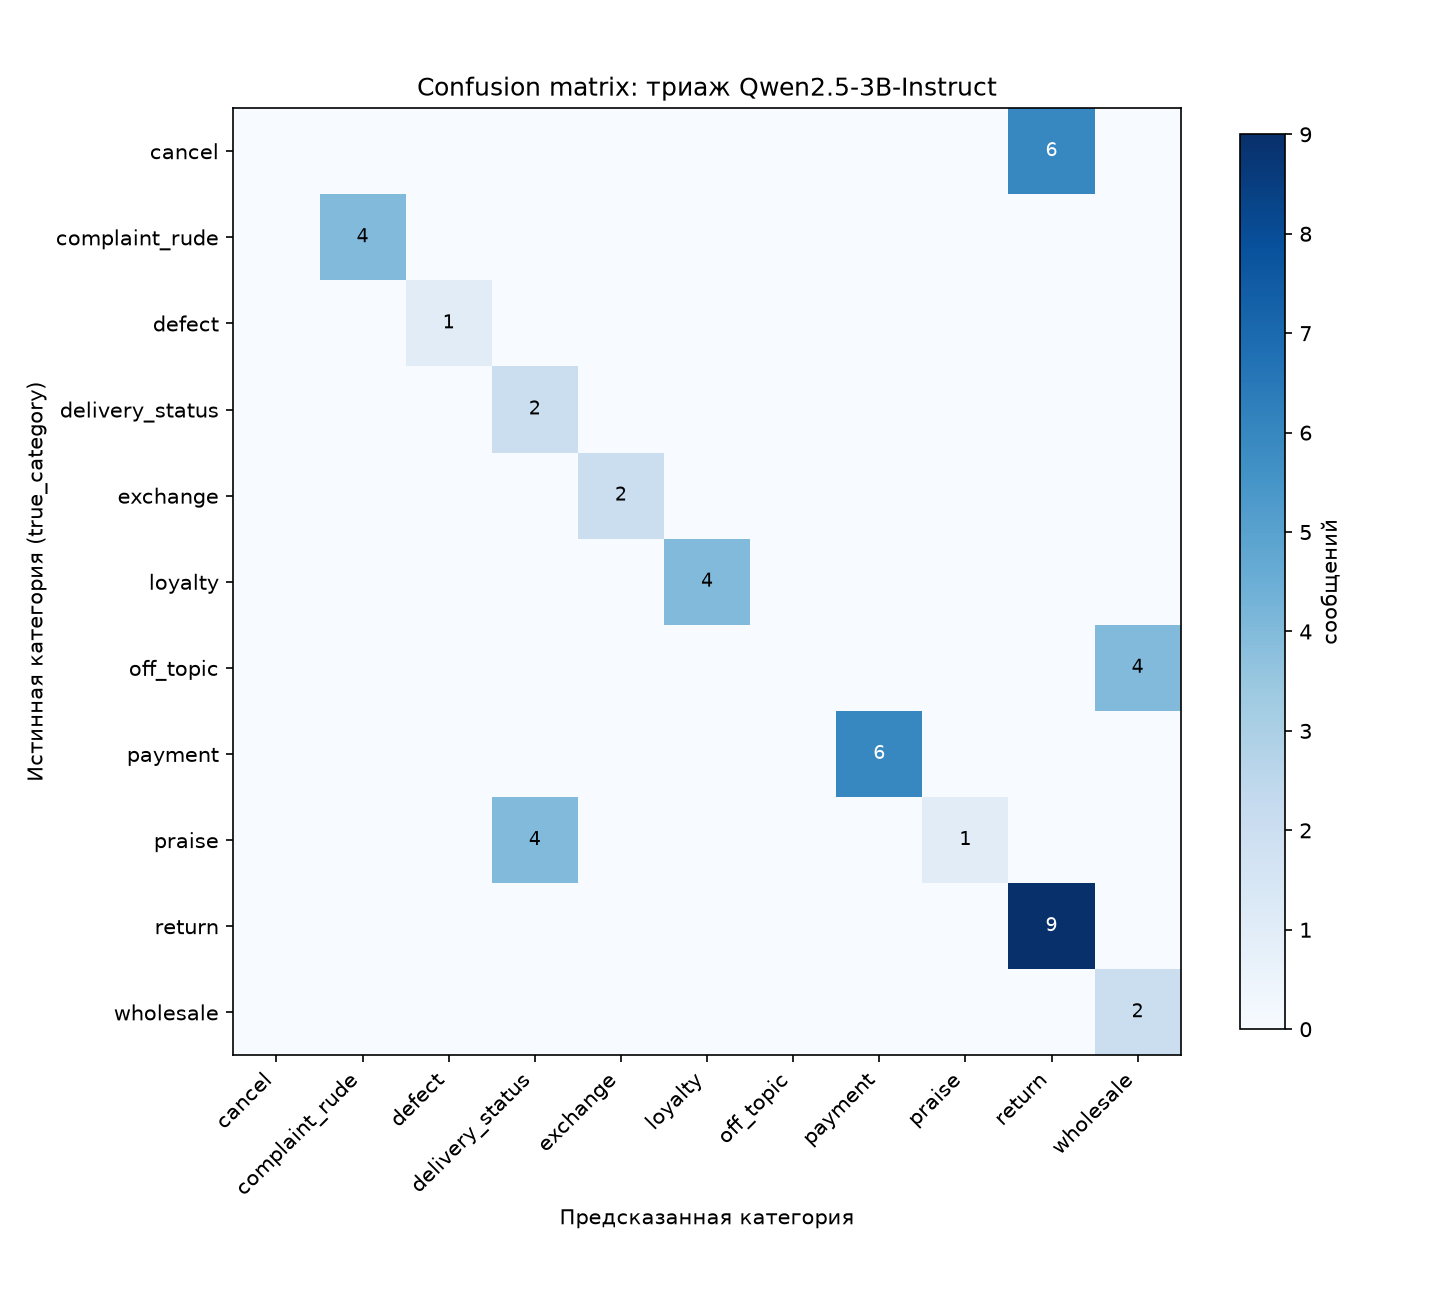
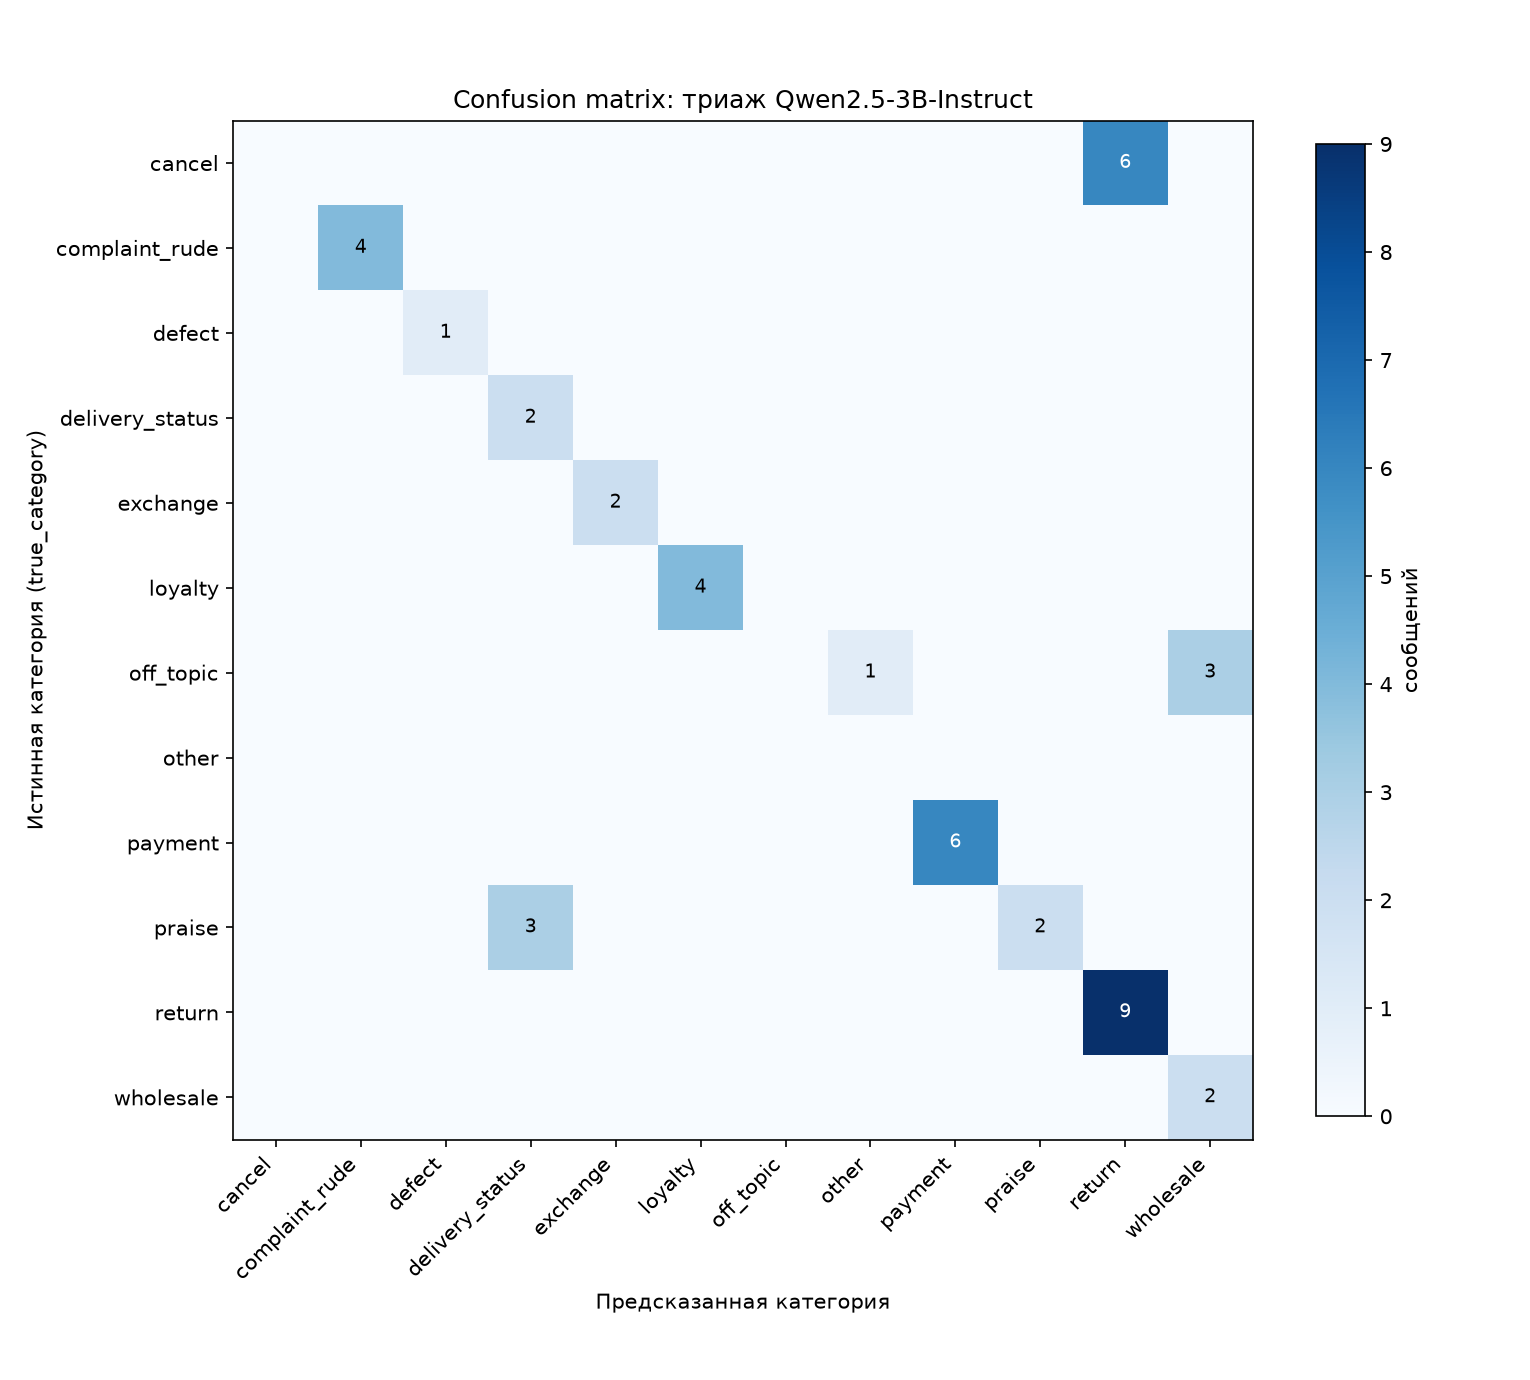
feat: добавить гибридный поиск (dense + full-text, RRF) в retrieval
kb_documents получает generated tsvector-колонку с GIN-индексом; src/rag.py
дополнен sparse_search и reciprocal_rank_fusion, объединяющим её с
существующим dense-поиском по pgvector. По пути обнаружено и починено:
plainto_tsquery ANDит леммы запроса и почти не матчился с разговорным
тоном обращений - заменено на OR леммы через to_tsquery.

Полный честный прогон (45 сообщений, схема пересоздана) на реальных
данных: accuracy 0.69 -> 0.71. Confusion matrix показывает, что часть
старой путаницы (off_topic/wholesale) была не только артефактом плохого
retrieval, но и собственным семантическим смещением модели - гибридный
поиск сменил найденный контекст, ошибка осталась в 3 из 4 случаев.

Также попутно исправлены два print() с кириллицей в run_triage.py,
падавшие с UnicodeEncodeError при перенаправлении вывода в файл на Windows.

diff --git a/src/rag.py b/src/rag.py
@@ -38,3 +38,67 @@ def top_k_similar(engine: Engine, query_embedding: list[float], k: int = 2) -> l
         ).mappings().all()
 
     return [dict(row) for row in rows]
+
+
+def sparse_search(engine: Engine, query_text: str, limit: int = 10) -> list[dict]:
+    """Full-text поиск через `search_tsv` (GIN-индекс, см. sql/triage_schema.sql).
+
+    Осознанно НЕ `plainto_tsquery` — он ANDит все леммы запроса, и обращение
+    клиента вида "Хочу оформить возврат..." почти никогда не матчится с
+    формальной базой знаний ("Товар... можно вернуть...") только потому, что
+    в документе физически нет леммы "хоч". Вместо этого леммы запроса
+    получены тем же `to_tsvector('russian', ...)`, что и у документов, и
+    объединены через OR (`tsquery_to_array` -> ` | `) — под капотом это то
+    же ранжирование по числу совпавших термов, что и BM25-подобный поиск, а
+    не строгий фильтр "все слова обязательны". Возвращает документы, уже
+    отсортированные по убыванию `ts_rank` — позиция в списке используется
+    как ранг в reciprocal_rank_fusion, отдельно ранг из БД не нужен."""
+    with engine.connect() as conn:
+        rows = conn.execute(
+            text(
+                """
+                SELECT id, title, content, ts_rank(search_tsv, query_tsq) AS rank
+                FROM kb_documents,
+                     to_tsquery('russian', array_to_string(tsvector_to_array(to_tsvector('russian', :query_text)), ' | ')) AS query_tsq
+                WHERE search_tsv @@ query_tsq
+                ORDER BY rank DESC
+                LIMIT :limit
+                """
+            ),
+            {"query_text": query_text, "limit": limit},
+        ).mappings().all()
+
+    return [dict(row) for row in rows]
+
+
+def reciprocal_rank_fusion(ranked_lists: list[list[dict]], k: int = 60) -> list[dict]:
+    """Reciprocal Rank Fusion (Cormack, Clarke & Buettcher, 2009):
+    score(doc) = sum по спискам 1/(k + rank). Комбинирует dense (cosine
+    similarity, 0..1) и sparse (ts_rank, произвольный несравнимый масштаб)
+    без нормализации скоров — берётся только позиция в каждом списке, что
+    и делает RRF устойчивым к разным шкалам. k=60 — константа из
+    оригинальной статьи, не подобрана под этот датасет."""
+    scores: dict[int, float] = {}
+    docs_by_id: dict[int, dict] = {}
+
+    for ranked in ranked_lists:
+        for rank, doc in enumerate(ranked, start=1):
+            scores[doc["id"]] = scores.get(doc["id"], 0.0) + 1.0 / (k + rank)
+            docs_by_id[doc["id"]] = doc
+
+    ordered_ids = sorted(scores, key=lambda doc_id: scores[doc_id], reverse=True)
+    return [{**docs_by_id[doc_id], "rrf_score": scores[doc_id]} for doc_id in ordered_ids]
+
+
+def hybrid_search(
+    engine: Engine, query_text: str, query_embedding: list[float],
+    k: int = 2, candidate_pool: int = 10,
+) -> list[dict]:
+    """Dense (pgvector, top_k_similar) + sparse (full-text, sparse_search),
+    объединённые через reciprocal_rank_fusion. candidate_pool — сколько
+    кандидатов берётся из каждой ветки перед фьюжном (больше k, иначе RRF
+    выбирать не из чего)."""
+    dense = top_k_similar(engine, query_embedding, k=candidate_pool)
+    sparse = sparse_search(engine, query_text, limit=candidate_pool)
+    fused = reciprocal_rank_fusion([dense, sparse], k=60)
+    return fused[:k]

diff --git a/tests/test_rag.py b/tests/test_rag.py
@@ -1,4 +1,6 @@
-from src.rag import to_vector_literal
+import pytest
+
+from src.rag import reciprocal_rank_fusion, to_vector_literal
 
 
 def test_to_vector_literal_formats_as_pgvector_array_string():
@@ -7,3 +9,42 @@ def test_to_vector_literal_formats_as_pgvector_array_string():
 
 def test_to_vector_literal_handles_empty_list():
     assert to_vector_literal([]) == "[]"
+
+
+def test_rrf_ranks_doc_agreed_on_by_both_lists_first():
+    dense = [{"id": 1}, {"id": 2}, {"id": 3}]
+    sparse = [{"id": 2}, {"id": 3}, {"id": 1}]
+
+    fused = reciprocal_rank_fusion([dense, sparse])
+
+    # id=2: rank 2 в dense + rank 1 в sparse -> лучший суммарный ранг
+    assert fused[0]["id"] == 2
+
+
+def test_rrf_includes_doc_found_by_only_one_list():
+    dense = [{"id": 1}, {"id": 2}]
+    sparse = [{"id": 3}]
+
+    fused = reciprocal_rank_fusion([dense, sparse])
+
+    assert {doc["id"] for doc in fused} == {1, 2, 3}
+
+
+def test_rrf_score_matches_sum_of_reciprocal_ranks():
+    dense = [{"id": 1}, {"id": 2}]
+    sparse = [{"id": 1}]
+
+    fused = reciprocal_rank_fusion([dense, sparse], k=60)
+    doc_1 = next(doc for doc in fused if doc["id"] == 1)
+
+    # id=1: rank 1 в обоих списках -> 1/(60+1) + 1/(60+1)
+    assert doc_1["rrf_score"] == pytest.approx(2 / 61)
+
+
+def test_rrf_preserves_doc_fields():
+    dense = [{"id": 1, "title": "t", "content": "c"}]
+
+    fused = reciprocal_rank_fusion([dense])
+
+    assert fused[0]["title"] == "t"
+    assert fused[0]["content"] == "c"

diff --git a/scripts/run_triage.py b/scripts/run_triage.py
@@ -1,8 +1,9 @@
 """Основной пайплайн: для каждого необработанного client_messages —
-embed -> retrieval топ-k из kb_documents (векторный поиск в Postgres,
-см. src/rag.py) -> классификация через Qwen -> запись в triage_results.
-Обрабатывает сообщения по одному (не батчами): это пакетный ночной джоб,
-а не realtime-сервис, задержка в секундах на сообщение здесь не проблема."""
+embed -> hybrid retrieval топ-k из kb_documents (dense pgvector + sparse
+full-text, объединённые RRF — см. src/rag.py::hybrid_search) ->
+классификация через Qwen -> запись в triage_results. Обрабатывает
+сообщения по одному (не батчами): это пакетный ночной джоб, а не
+realtime-сервис, задержка в секундах на сообщение здесь не проблема."""
 import sys
 import time
 from pathlib import Path
@@ -16,7 +17,7 @@ if str(PROJECT_ROOT) not in sys.path:
 
 from src.db import get_vector_engine
 from src.ollama_client import CHAT_MODEL, embed
-from src.rag import top_k_similar
+from src.rag import hybrid_search
 from src.triage import classify_message
 
 TOP_K = 2
@@ -38,14 +39,14 @@ def fetch_pending_messages(engine) -> pd.DataFrame:
 def run() -> None:
     engine = get_vector_engine()
     pending = fetch_pending_messages(engine)
-    print(f"Обрабатываю {len(pending)} сообщений моделью {CHAT_MODEL}...")
+    print(f"Processing {len(pending)} messages with {CHAT_MODEL}...")
 
     processed = 0
     for _, row in pending.iterrows():
         start = time.perf_counter()
 
         query_embedding = embed([row["message_text"]])[0]
-        retrieved = top_k_similar(engine, query_embedding, k=TOP_K)
+        retrieved = hybrid_search(engine, row["message_text"], query_embedding, k=TOP_K)
         result = classify_message(row["message_text"], retrieved)
 
         latency_ms = int((time.perf_counter() - start) * 1000)
@@ -78,7 +79,7 @@ def run() -> None:
         if processed % 20 == 0:
             print(f"  {processed}/{len(pending)}")
 
-    print(f"Готово: обработано {processed} сообщений")
+    print(f"Done: processed {processed} messages")
 
 
 if __name__ == "__main__":